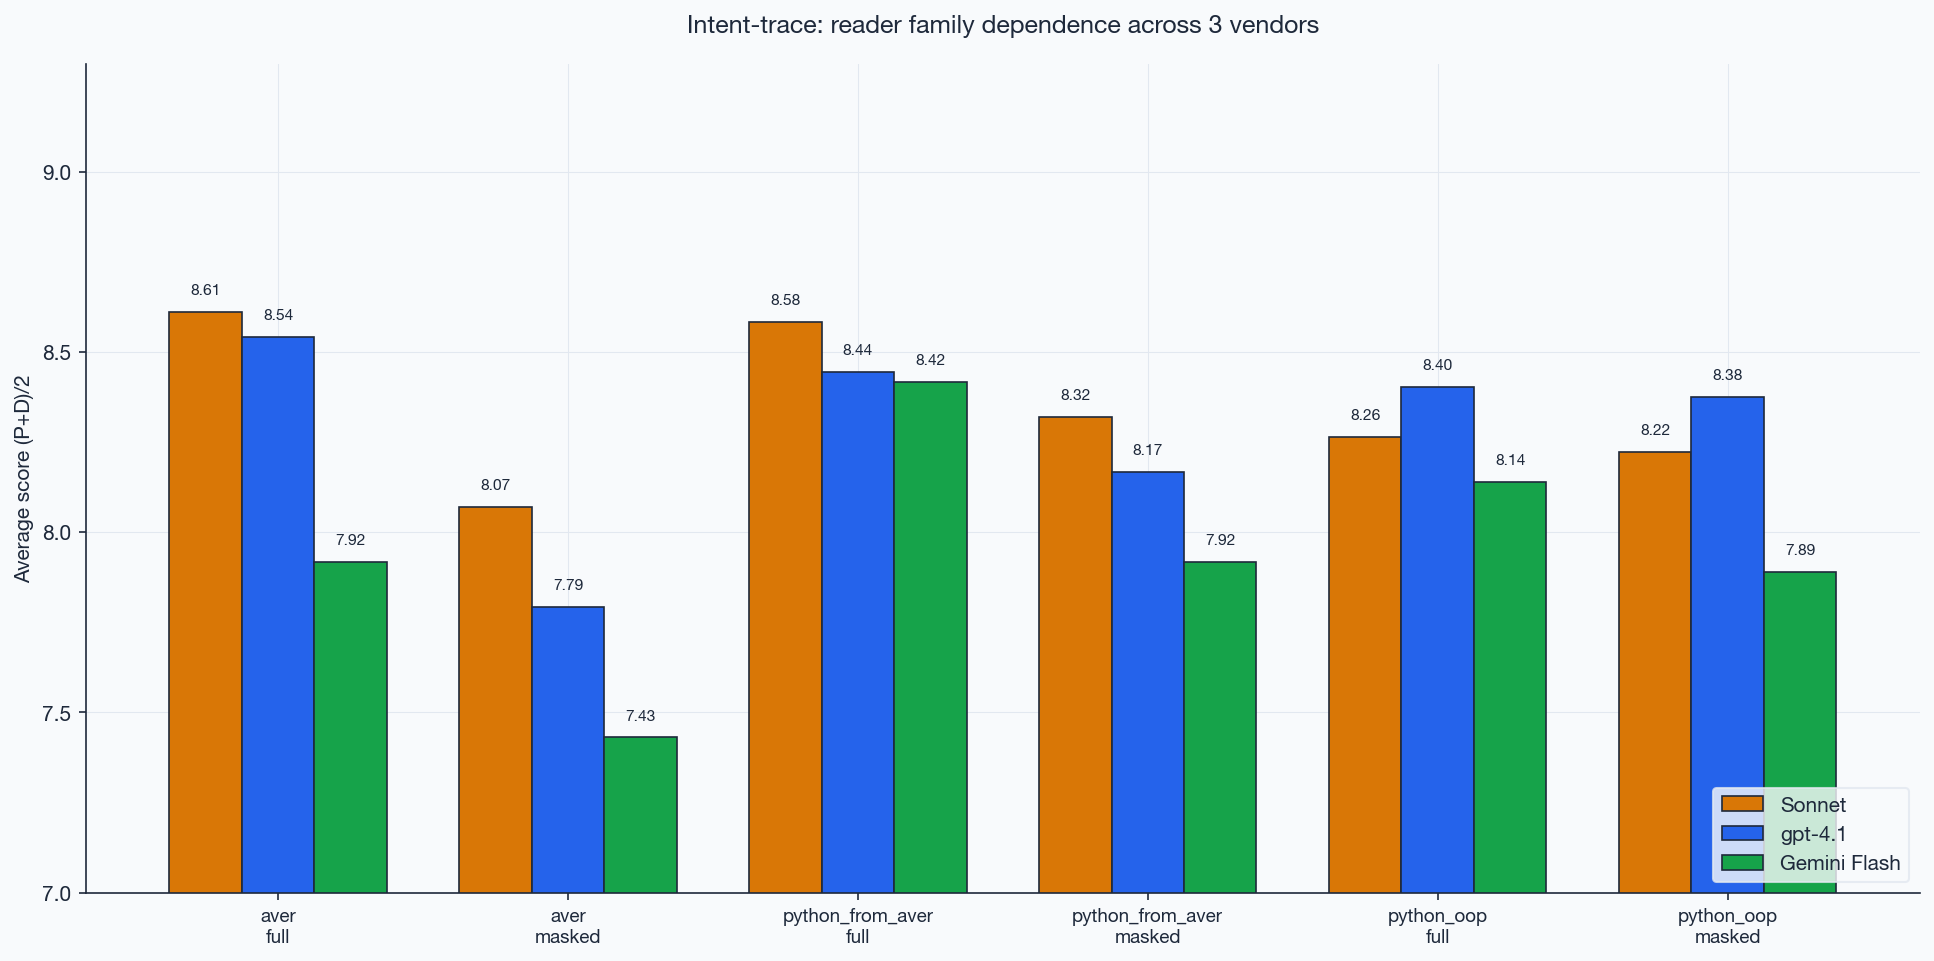
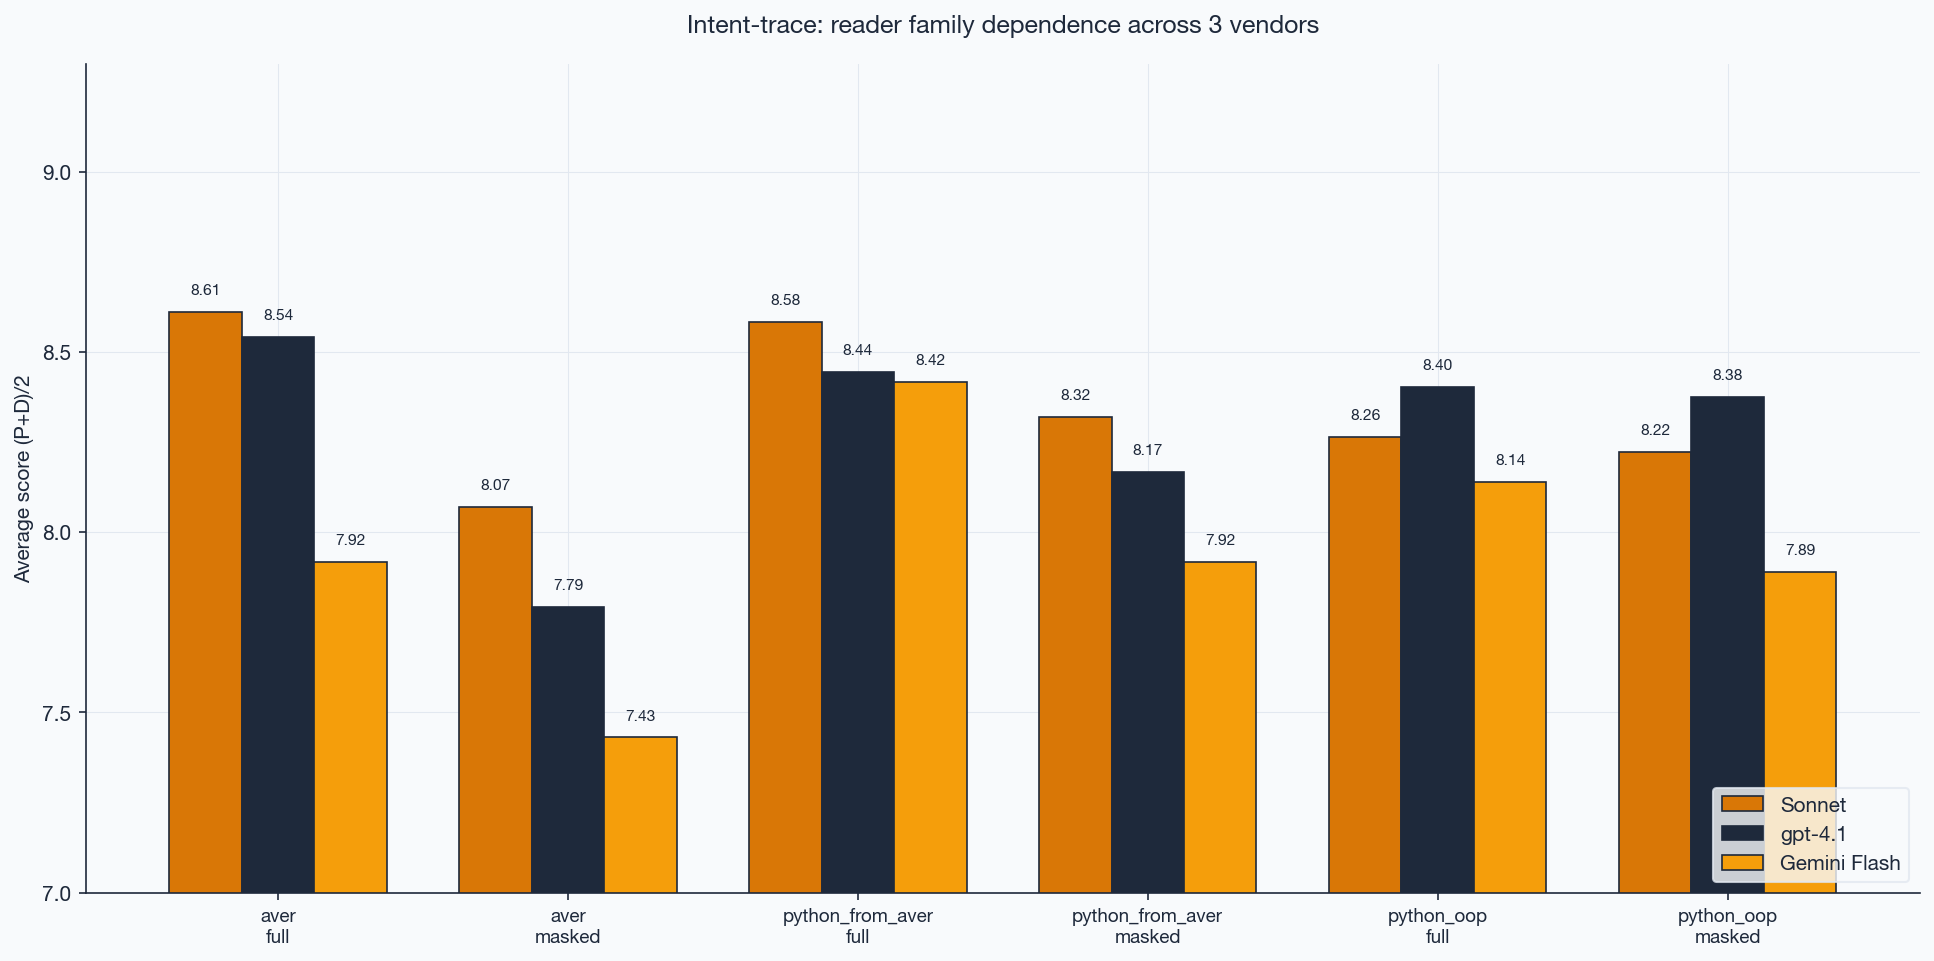
Three-way reader chart: drop non-brand blue/green, use amber/slate/amber-light

diff --git a/scripts/plot_results.py b/scripts/plot_results.py
@@ -13,12 +13,11 @@ import matplotlib as mpl
 # Aver brand palette (from averlang.dev style.css + logo SVGs)
 AMBER = "#d97706"
 AMBER_LIGHT = "#f59e0b"
+AMBER_DARK = "#92400e"
 SLATE = "#1e293b"
 SLATE_MUTED = "#64748b"
 SLATE_LIGHT = "#e2e8f0"
 BG = "#f8fafc"
-GREEN = "#16a34a"
-RED = "#dc2626"
 
 LANG_COLORS = {
     "aver": AMBER,
@@ -194,8 +193,8 @@ READER_PATHS = {
 }
 READER_COLORS = {
     "Sonnet": AMBER,
-    "gpt-4.1": "#2563eb",  # blue — GPT family
-    "Gemini Flash": "#16a34a",  # green — Google family
+    "gpt-4.1": SLATE,
+    "Gemini Flash": AMBER_LIGHT,
 }
 
 
